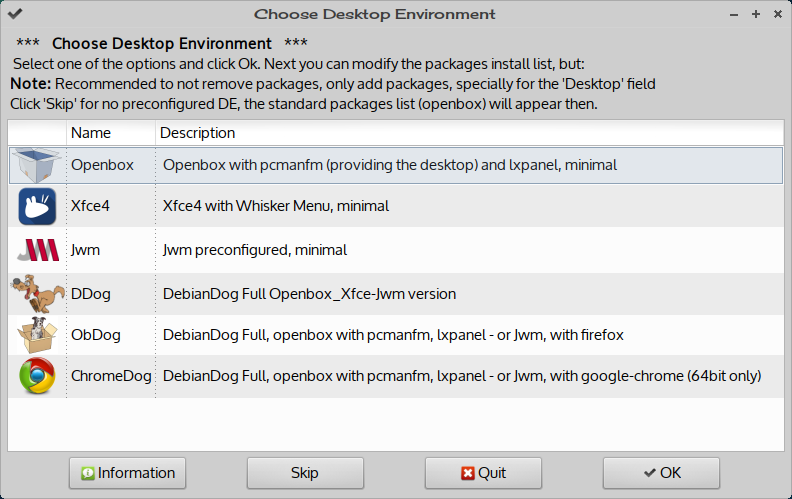
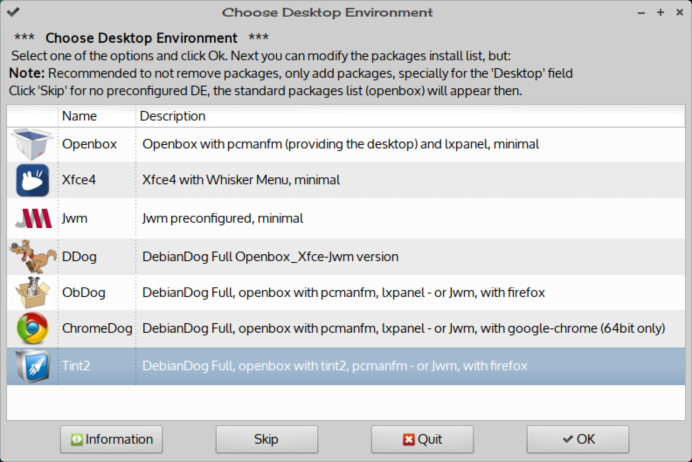
Update repo

diff --git a/screenshots-bullseye/index.html b/screenshots-bullseye/index.html
@@ -8,10 +8,12 @@ p.big {
 <body><h2>Index of MakeLive/screenshots-bullseye</h2><pre><b> Name                                                                                Last modified            Size</b>
 <p STYLE="font-size: 13px;" class="big"><a href=https://debiandog.github.io/MakeLive>Parent Directory/</a>
 <a href="ddog-openbox-xfce.png">ddog-openbox-xfce.png</a>                                                     07-Jan-2021 20:26     294K
-<a href="mklive-bullseye-cli.png">mklive-bullseye-cli.png</a>                                                   07-Jan-2021 22:05     65K
-<a href="mklive-bullseye-de_config.png">mklive-bullseye-de_config.png</a>                                             07-Jan-2021 21:59     82K
+<a href="mklive-bullseye-cli.png">mklive-bullseye-cli.png</a>                                                   12-Jan-2021 20:17     120K
+<a href="mklive-bullseye-de_config.png">mklive-bullseye-de_config.png</a>                                             12-Jan-2021 20:15     135K
 <a href="mklive-bullseye-packages.png">mklive-bullseye-packages.png</a>                                              07-Jan-2021 22:00     73K
+<a href="openbox-desktop-manager.png">openbox-desktop-manager.png</a>                                               12-Jan-2021 19:57     298K
 <a href="openbox-minimal.png">openbox-minimal.png</a>                                                       07-Jan-2021 21:01     164K
+<a href="openbox-tint2.png">openbox-tint2.png</a>                                                         12-Jan-2021 19:56     332K
 <a href="xfce4-minimal.png">xfce4-minimal.png</a>                                                         09-Jan-2021 11:56     229K
 </font></p>
 </pre><address>Github Server at https://debiandog.github.io/</address></body></html>

diff --git a/index.html b/index.html
@@ -74,7 +74,7 @@ p.big {
 <a href="modules-bullseye">modules-bullseye/</a>                                                         10-Jan-2021 20:26     -
 <a href="modules-buster">modules-buster/</a>                                                           27-Oct-2019  0:26     -
 <a href="modules">modules/</a>                                                                  19-Sep-2019 13:27     -
-<a href="screenshots-bullseye">screenshots-bullseye/</a>                                                     09-Jan-2021 11:56     -
+<a href="screenshots-bullseye">screenshots-bullseye/</a>                                                     12-Jan-2021 20:27     -
 <a href="screenshots">screenshots/</a>                                                              19-Sep-2019 13:25     -
 <a href="thunar">thunar/</a>                                                                   19-Sep-2019 13:25     -
 </font></p>
